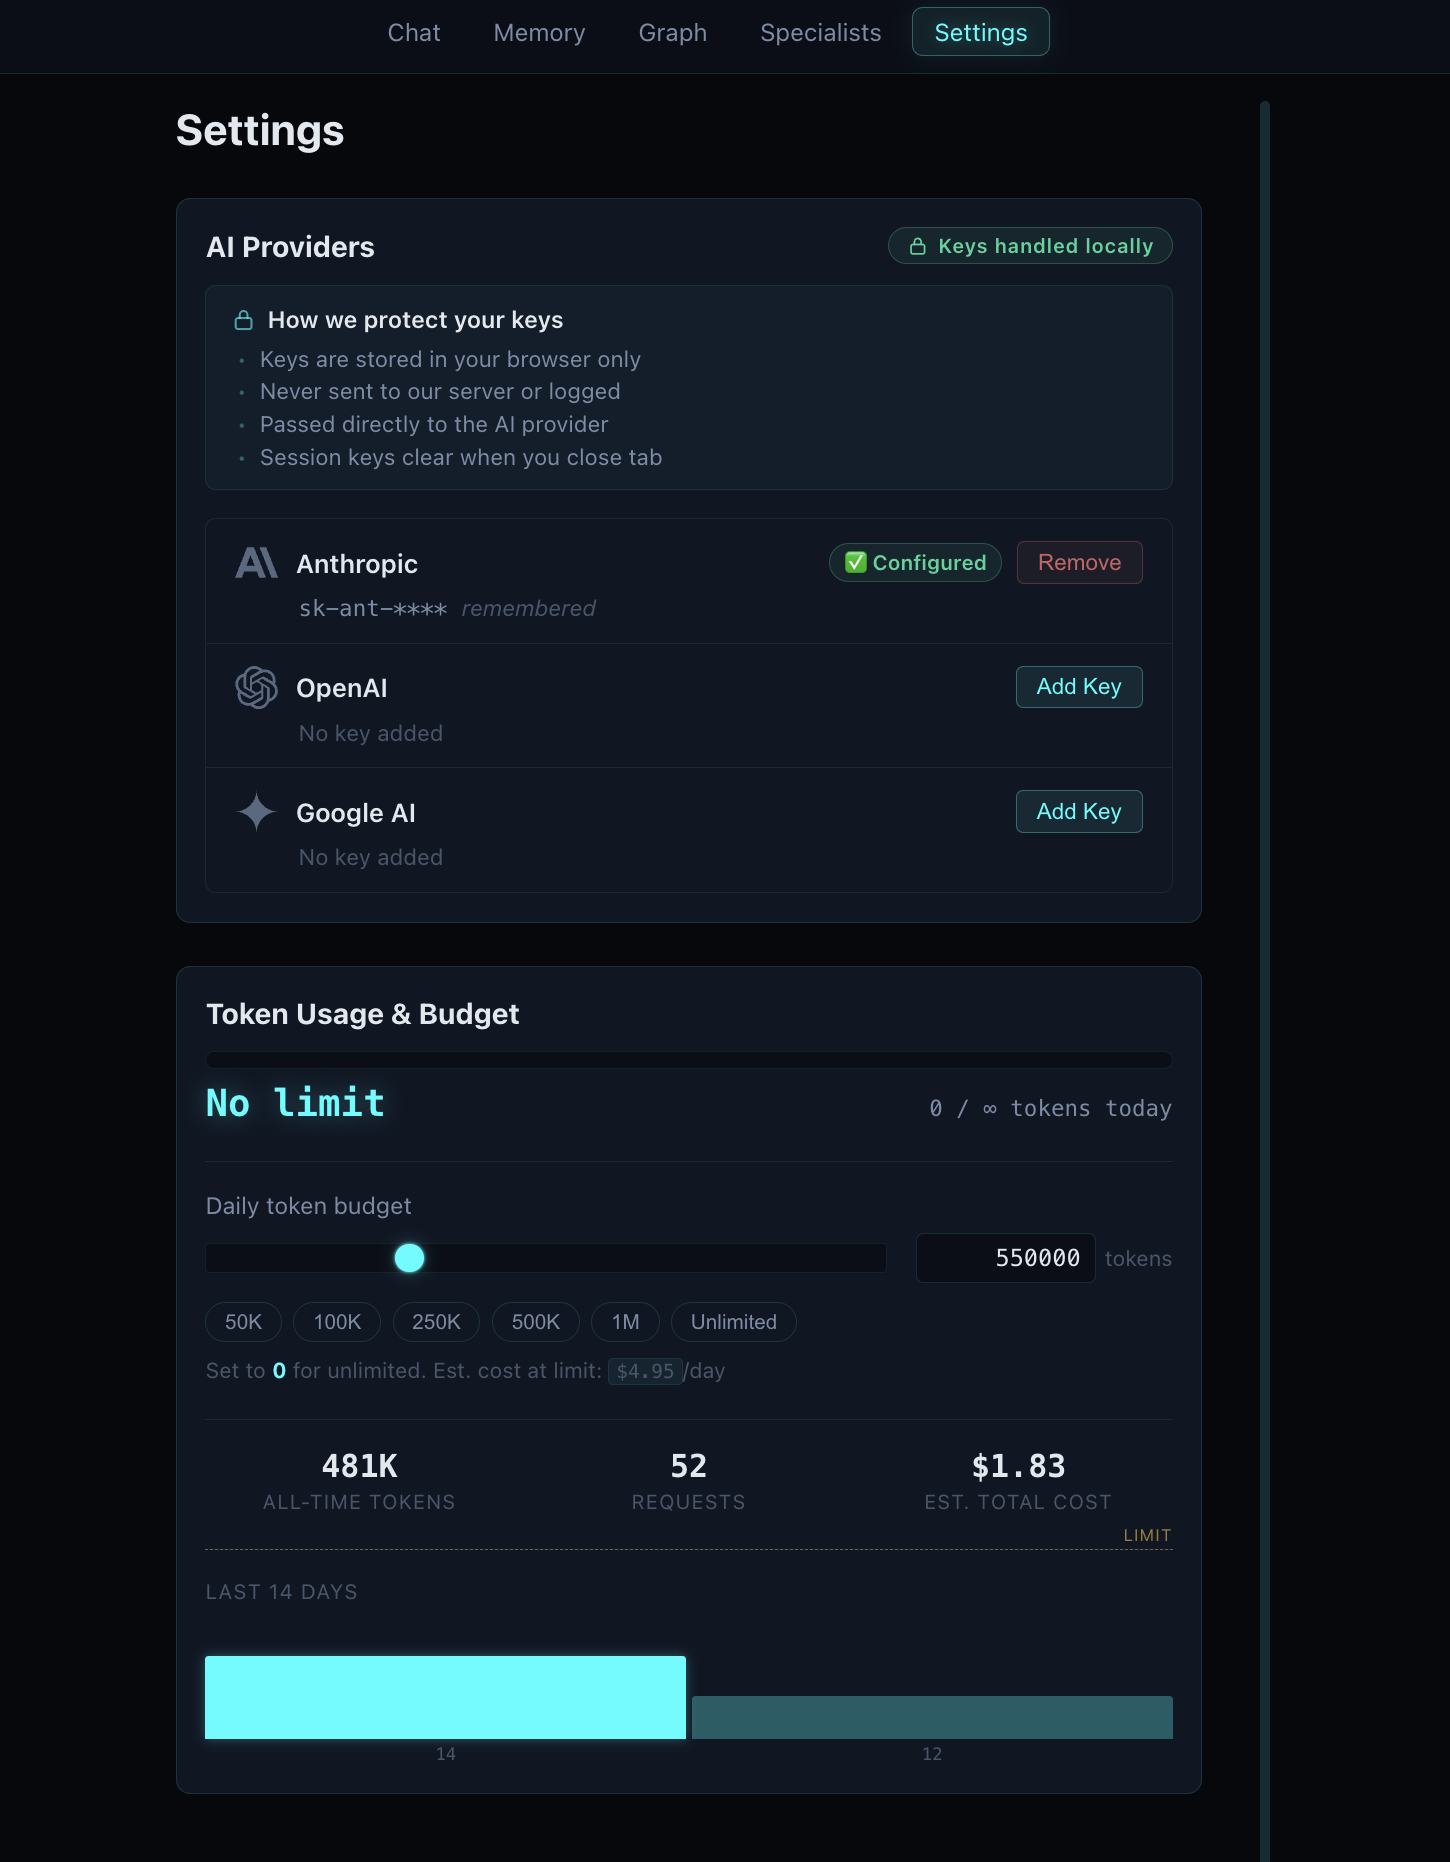
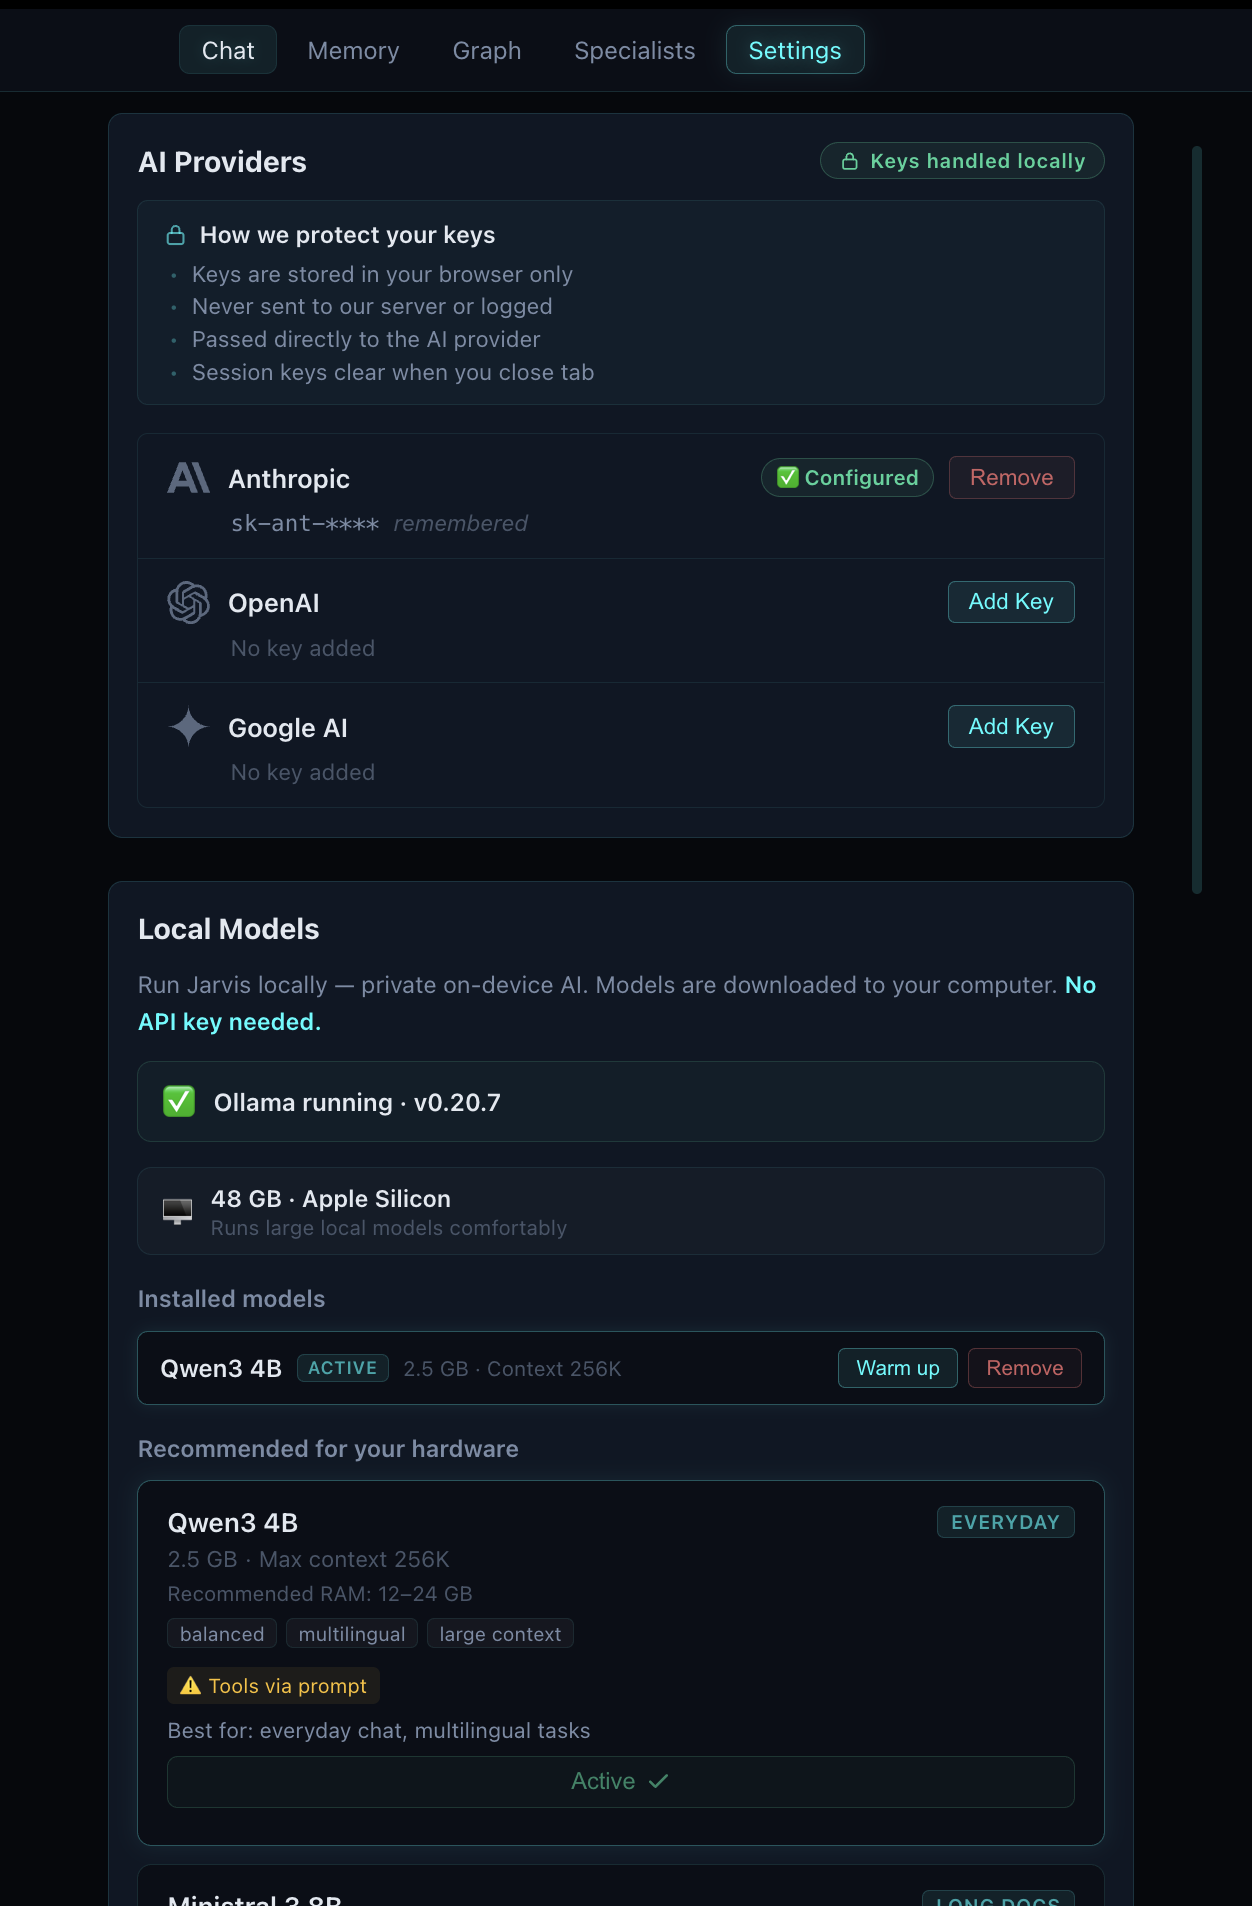
docs: strengthen README local/cloud positioning

diff --git a/README.md b/README.md
@@ -5,27 +5,70 @@
 [![Release](https://img.shields.io/github/v/release/Szesnasty/Jarvis?include_prereleases&label=version)](https://github.com/Szesnasty/Jarvis/releases)
 [![License: Apache 2.0](https://img.shields.io/badge/License-Apache%202.0-blue.svg)](LICENSE)
 
-**A personal knowledge operating system that turns notes, files, links, and AI conversations into durable memory.**
+**An AI workspace that remembers what matters.**
 
-Most AI tools give you answers.
-Most note apps give you storage.
-**Jarvis gives you continuity.**
+Local-first memory, hybrid retrieval, and durable context.
+Run Jarvis on your machine with Ollama or connect your preferred cloud provider.
+Every useful interaction makes the system better over time.
 
 Jarvis helps you:
 - import notes, files, URLs, and YouTube sources into one system
 - retrieve context through keyword + semantic + graph search
 - turn useful outputs into reusable notes, plans, and summaries
-- create custom specialists directly from the UI
-- run structured debates between specialists with **Duel Mode**
+- run locally with Ollama — no API key required
+- use Anthropic, OpenAI, or Google models when you want cloud power
+- create custom specialists and run structured debates
 - search the web via DuckDuckGo when local memory isn't enough
-- use Anthropic, OpenAI, or Google models — your choice
 - keep your memory local-first and Obsidian-compatible
 
 > **Jarvis is not another AI chat with memory.**
 > **It is a personal knowledge system that gets more useful every time you use it.**
 
-<!-- Coming soon: hero screenshot or demo GIF — place image at docs/assets/hero.png -->
 ![Jarvis hero](./docs/assets/hero.png)
+
+---
+
+## Run it your way
+
+### Local mode — private, on-device, no API key required
+
+Use [Ollama](https://ollama.com) and downloadable models directly on your computer. Your data and your model stay on your machine.
+
+### Cloud mode — bring your own provider
+
+Use Anthropic, OpenAI, or Google via API key. Access the most capable models when you need them.
+
+### Hybrid mode — mix local and cloud
+
+Use local models for everyday work and switch to cloud for heavier tasks. Change providers per conversation from Settings.
+
+---
+
+## Local models you can start with
+
+Jarvis includes 7 curated model presets that run through Ollama. It recommends models based on your hardware and lets you download, switch, and manage them directly from Settings.
+
+| Preset | Model | Best for |
+|---|---|---|
+| **Fast** | Qwen3 1.7B | Weakest laptops, quick local chat |
+| **Everyday** | Qwen3 4B | Lightweight everyday use |
+| **Balanced** | Qwen3 8B | Best default for most users |
+| **Long Docs** | Ministral 3 8B | Long documents, larger context windows |
+| **Reasoning** | Gemma 4 E4B | Stronger reasoning on better hardware |
+| **Code** | Devstral Small 2 24B | Repo work and multi-file edits |
+| **Best Local** | Gemma 4 27B | Best quality, complex tasks |
+
+Start with **Qwen3 8B** if you want the safest default. You can add cloud providers later in Settings.
+
+---
+
+## Why local mode matters
+
+- No API key required — start using Jarvis immediately
+- Private in local mode — prompts and memory stay on your machine
+- Lower recurring cost — no per-token charges
+- Good fit for memory-heavy workflows — retrieval runs locally too
+- Great for notes, documents, planning, and retrieval
 
 ---
 
@@ -54,8 +97,8 @@ Jarvis does the expensive work locally first — BM25, semantic search, graph ex
 ### A real knowledge graph
 Notes, people, projects, topics, and sources are connected through a graph that is part of retrieval and reasoning — not just a visualization.
 
-### Multi-provider
-Anthropic, OpenAI, and Google models via LiteLLM. Switch models per conversation. No vendor lock-in.
+### Local or cloud — your choice
+Run fully local with Ollama and downloadable models, or connect Anthropic, OpenAI, or Google via API key. Switch between local and cloud per conversation. No vendor lock-in.
 
 ### Specialists from the UI
 Create reusable roles — Weekly Planner, Health Guide, Study Coach, Research Assistant — directly from the interface. No prompt engineering required.
@@ -71,6 +114,27 @@ Useful outputs become notes, summaries, plans, graph links, and durable context.
 
 ### Obsidian-compatible
 Your `Jarvis/memory/` folder works as a valid Obsidian vault — plain Markdown, YAML frontmatter, wiki-links, human-readable structure.
+
+---
+
+## What works today
+
+- Browser-based UI with chat, memory browser, graph view, settings
+- Local workspace with Markdown memory
+- **Local models via Ollama** — 7 curated presets, no API key required
+- **Hardware-aware model recommendations** based on your RAM, disk, and GPU
+- Download, manage, and switch models directly from Settings
+- File, URL, and YouTube ingest (including PDF)
+- Interactive graph visualization (D3-based)
+- Graph-guided hybrid retrieval (BM25 + semantic + graph scoring)
+- Local embeddings via fastembed (multilingual, no API calls)
+- Specialist system with full UI wizard
+- Duel Mode with round-based debate and scored verdict
+- Multi-provider support (Anthropic, OpenAI, Google, Ollama)
+- Web search via DuckDuckGo (no extra API key)
+- Token tracking with budget controls
+- Session-to-memory write-back with graph updates
+- Obsidian-compatible memory structure
 
 ---
 
@@ -92,19 +156,9 @@ Your `Jarvis/memory/` folder works as a valid Obsidian vault — plain Markdown,
 
 ---
 
-## Why this is not ChatGPT, NotebookLM, or Obsidian
-
-| Tool | What it does well | Where Jarvis differs |
-|---|---|---|
-| **ChatGPT** | Great general AI assistant | Jarvis writes outputs back into structured, local memory |
-| **NotebookLM** | Source-grounded research | Jarvis turns sources into a living memory + graph + specialist system |
-| **Obsidian** | Local note-taking and vault management | Jarvis adds retrieval, reasoning, specialists, graph-aware context, and write-back |
-
-**Jarvis is the layer that turns information into working memory.**
-
----
-
 ## Interface
+
+Jarvis can be powered by cloud providers or run fully locally with downloadable models.
 
 ### Chat — your memory-aware assistant
 Ask questions, get answers grounded in your own notes. Context is retrieved automatically — you just talk.
@@ -130,41 +184,27 @@ Two specialists argue. Jarvis judges. The verdict, scores, and action items are 
 API keys, model selection, token budgets, workspace path. Everything stays local.
 ![Settings](./docs/assets/settings.png)
 
----
+<details>
+<summary><strong>Why this is not ChatGPT, NotebookLM, or Obsidian</strong></summary>
 
-## What works today
+| Tool | What it does well | Where Jarvis differs |
+|---|---|---|
+| **ChatGPT** | Great general AI assistant | Jarvis writes outputs back into structured, local memory |
+| **NotebookLM** | Source-grounded research | Jarvis turns sources into a living memory + graph + specialist system |
+| **Obsidian** | Local note-taking and vault management | Jarvis adds retrieval, reasoning, specialists, graph-aware context, and write-back |
 
-- Browser-based UI with chat, memory browser, graph view, settings
-- Local workspace with Markdown memory
-- File, URL, and YouTube ingest (including PDF)
-- Interactive graph visualization (D3-based)
-- Graph-guided hybrid retrieval (BM25 + semantic + graph scoring)
-- Local embeddings via fastembed (multilingual, no API calls)
-- Specialist system with full UI wizard
-- Duel Mode with round-based debate and scored verdict
-- Multi-provider support (Anthropic, OpenAI, Google)
-- Web search via DuckDuckGo (no extra API key)
-- Token tracking with budget controls
-- Session-to-memory write-back with graph updates
-- Secure API key handling
-- Obsidian-compatible memory structure
+**Jarvis is the layer that turns information into working memory.**
+
+</details>
 
 ---
 
 ## Quick start
 
-### Requirements
+### 1. Install and launch Jarvis
 
 - **Node.js 20+** — check: `node --version`
 - **Python 3.12 or 3.13** — check: `python3 --version` (macOS/Linux) or `py --version` (Windows)
-- **One API key** from any supported provider:
-  - [Anthropic](https://console.anthropic.com) (Claude)
-  - [OpenAI](https://platform.openai.com/api-keys) (GPT-4o)
-  - [Google AI](https://aistudio.google.com/apikey) (Gemini)
-
-> Don't have Node.js or Python? Use a [bootstrap installer](#zero-prereq-bootstrap) — it can download local runtimes automatically, no admin rights needed.
-
-### One command
 
 ```bash
 git clone https://github.com/Szesnasty/Jarvis.git
@@ -172,16 +212,30 @@ cd Jarvis
 npm run wake-up-jarvis
 ```
 
-**That's it. One command to install and start Jarvis.** It will:
-
-1. **Preflight check** — verify Node 20+, npm 9+, Python 3.12–3.13
-2. **Backend** — create venv, install Python deps
-3. **Frontend** — install Node deps, build production Nuxt bundle
-4. **Start both servers** — backend on :8000, frontend on :3000
-
-Open **http://localhost:3000**, paste your API key, create your workspace.
+This will install dependencies, build the frontend, and start both servers.
+Open **http://localhost:3000** and create your workspace.
 
 > Aliases: `npm run wake`, `npm start`. Stop with **Ctrl+C**.
+> Don't have Node.js or Python? Use a [bootstrap installer](#zero-prereq-bootstrap).
+
+### 2. Choose how to run it
+
+#### Local mode — no API key
+
+1. Install [Ollama](https://ollama.com) and start it
+2. Open Settings in Jarvis → go to Local Models
+3. Pick a model preset and click Pull to download it
+4. Select the model as active and start chatting
+
+No API key needed. Everything runs on your machine.
+
+#### Cloud mode
+
+1. Get an API key from [Anthropic](https://console.anthropic.com), [OpenAI](https://platform.openai.com/api-keys), or [Google AI](https://aistudio.google.com/apikey)
+2. Open Settings in Jarvis → paste your API key
+3. Select your preferred model and start chatting
+
+Both options are first-class. You can switch between them anytime.
 
 <details>
 <summary><strong>Zero-prereq bootstrap</strong></summary>
@@ -256,7 +310,7 @@ npm run dev:frontend       # nuxt dev
 #### Windows
 - **Install looks stuck during venv creation** — antivirus scanning. Give it 2–5 minutes. Don't Ctrl+C.
 - **Too slow?** Add Windows Defender exclusion for `backend\.venv`
-- **Scripts disabled** — use `powershell -ExecutionPolicy Bypass -File .\bootstrap\install.ps1`
+- **Scripts disabled** — use `powershell -ExecutionPolicy Bypass -File \.\bootstrap\install.ps1`
 
 #### macOS
 - **"xcrun: error"** — run `xcode-select --install`
@@ -341,9 +395,9 @@ Anyone who thinks in notes and wants continuity, not just output.
 
 ## Current status
 
-**Working now:** local workspace, memory CRUD, file/URL/YouTube ingest, hybrid retrieval, graph visualization, specialists, Duel Mode, multi-provider LLM, token tracking, session write-back, web search.
+**Working now:** local workspace, memory CRUD, file/URL/YouTube ingest, hybrid retrieval, graph visualization, specialists, Duel Mode, multi-provider LLM (cloud + local), local models via Ollama with hardware-aware recommendations, token tracking, session write-back, web search.
 
-**Planned next:** stronger feedback loops, smarter graph enrichment, Council Mode, improved local model support, voice (once quality is reliable).
+**Planned next:** stronger feedback loops, smarter graph enrichment, Council Mode, voice (once quality is reliable).
 
 ---
 
